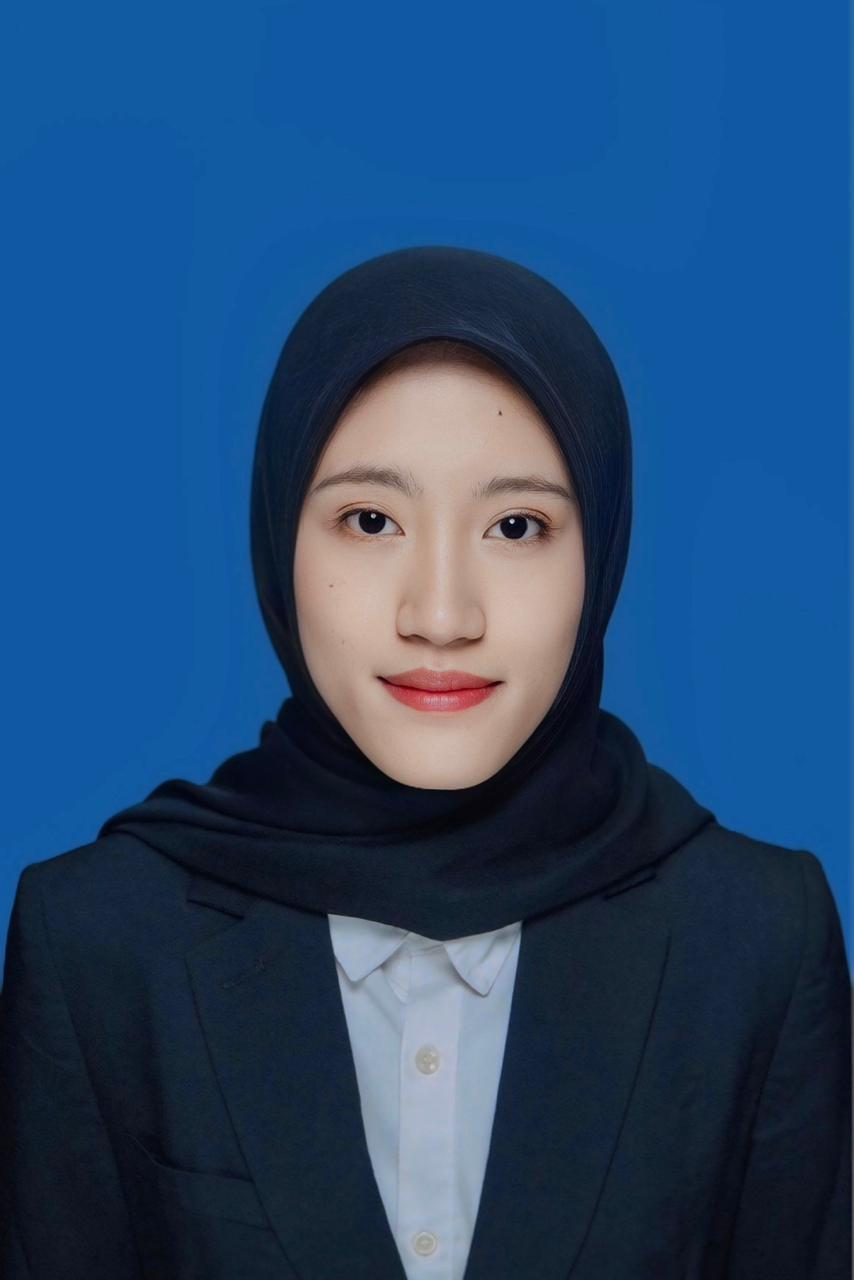
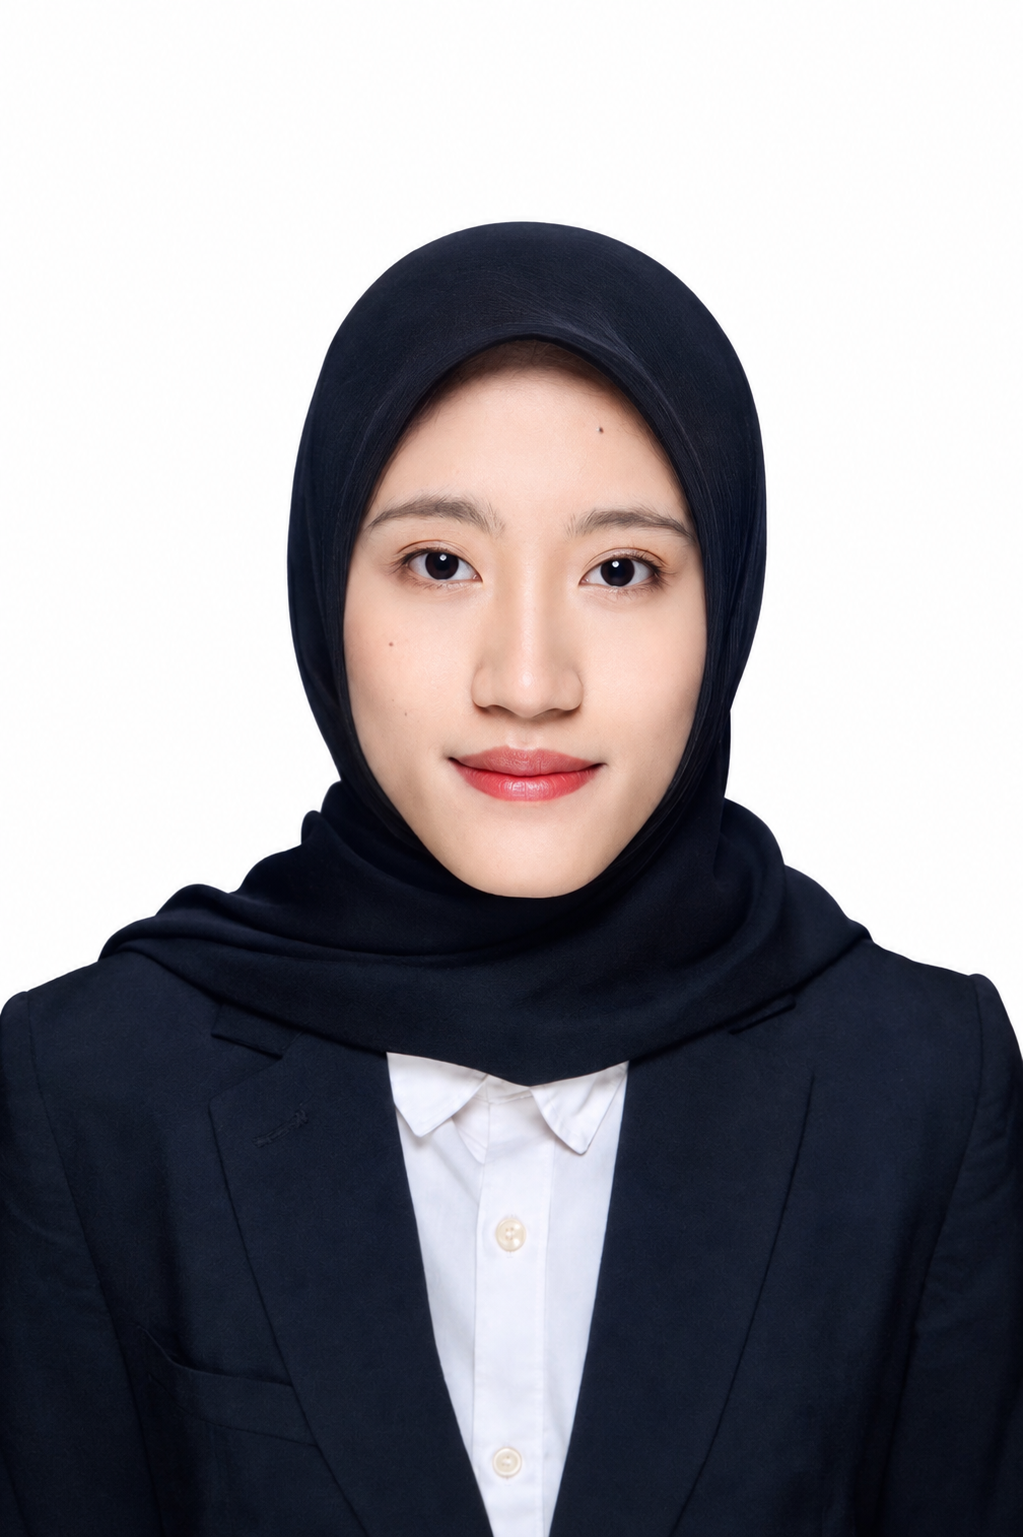
Update profile photo with new photo (Foto.png)

diff --git a/index.html b/index.html
@@ -111,7 +111,7 @@
                 <div class="profile-card-wrapper">
                     <div class="profile-card">
                         <div class="profile-img-container">
-                            <img src="Source/Foto.jpeg" alt="Dea Putri Andini" class="profile-img">
+                            <img src="Source/Foto.png" alt="Dea Putri Andini" class="profile-img">
                         </div>
                         <div class="profile-info">
                             <h3>Dea Putri Andini</h3>
